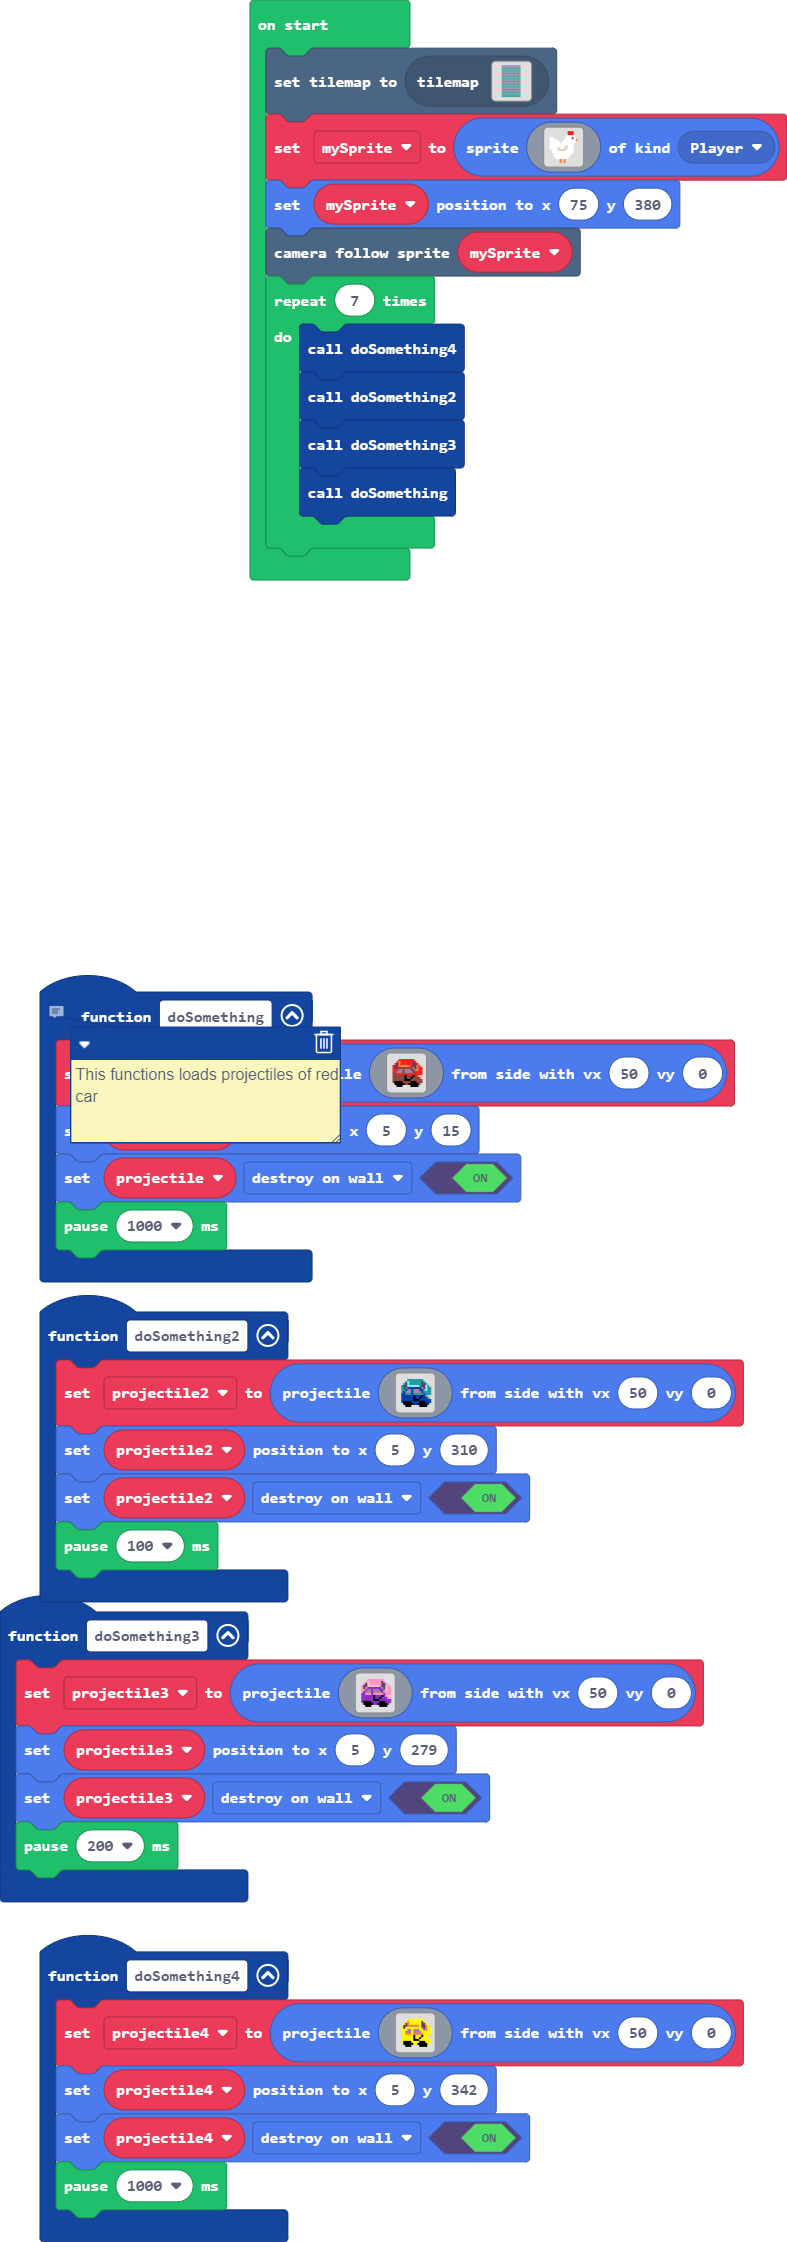
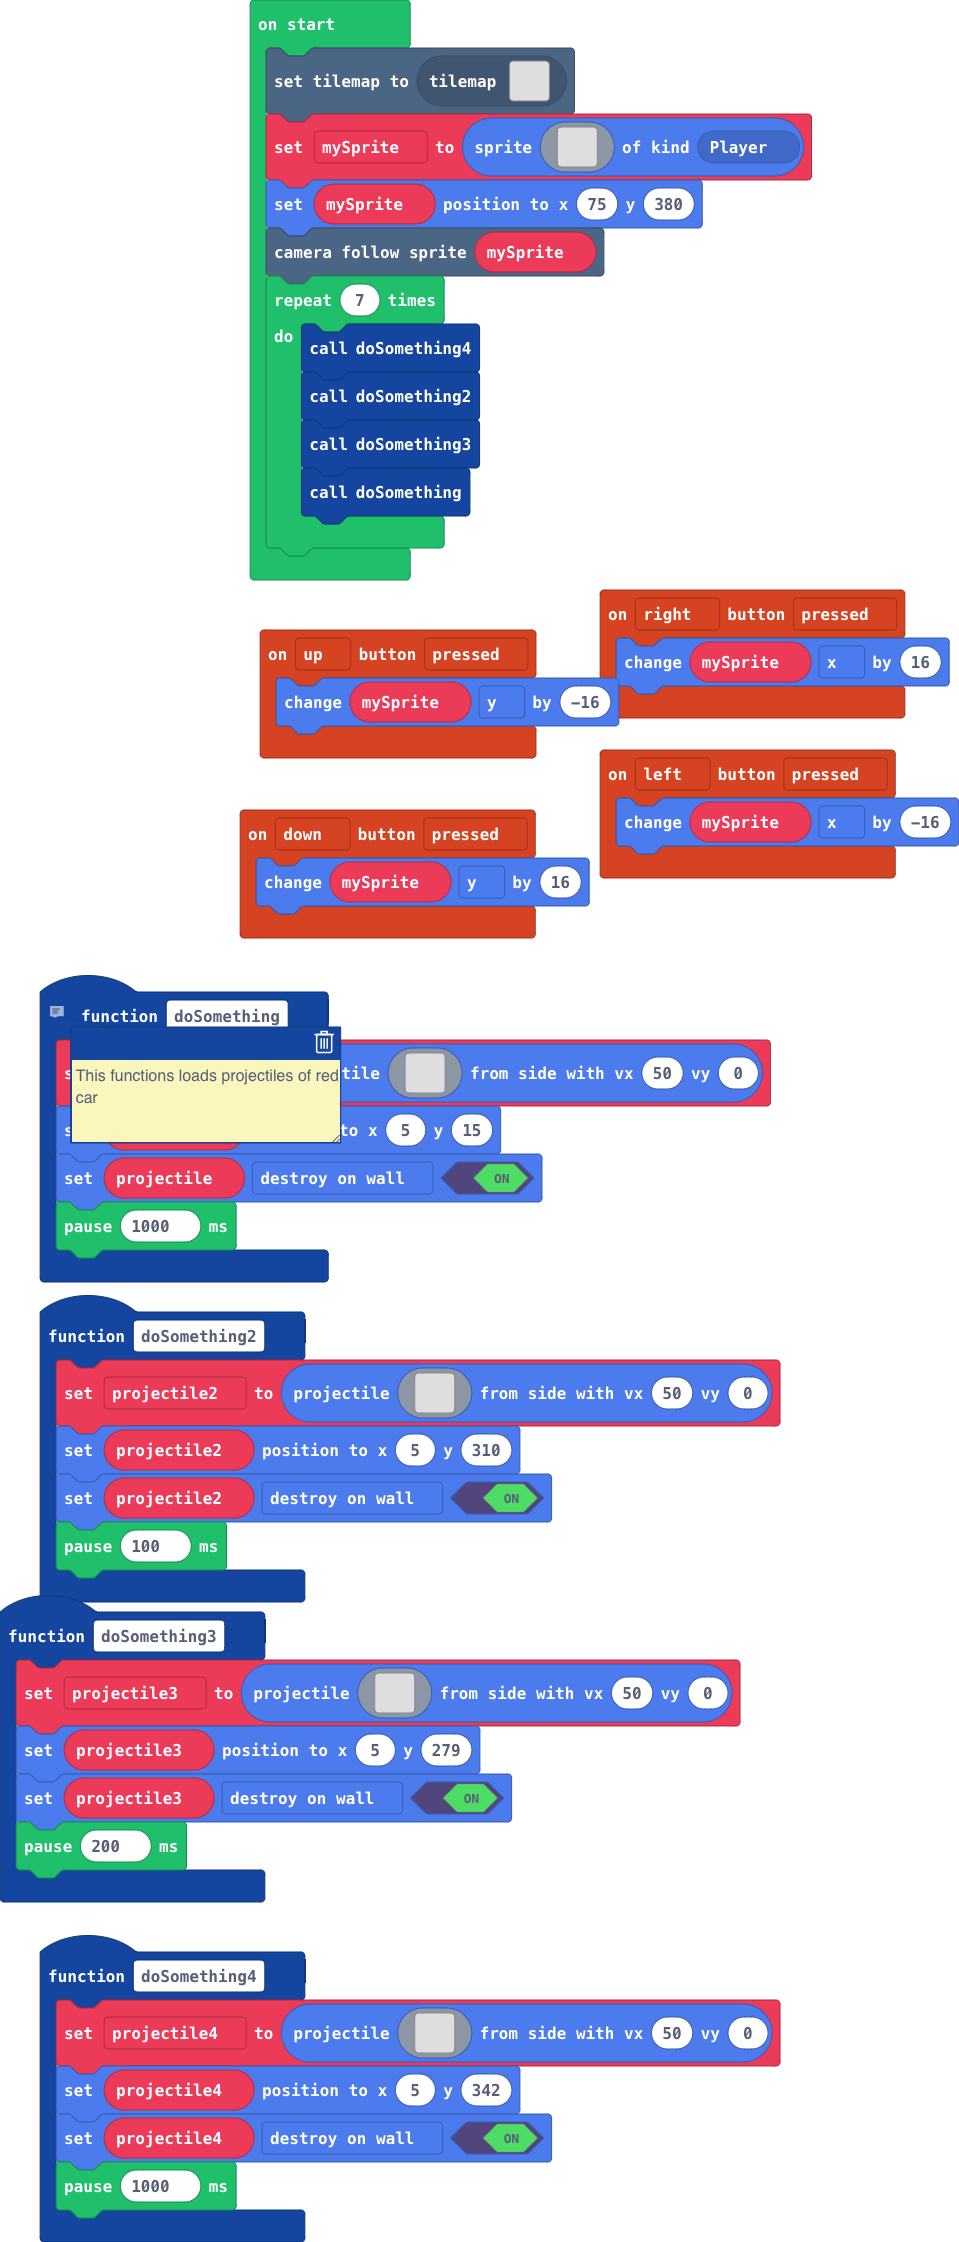
Update main.blocks, main.ts

diff --git a/main.ts b/main.ts
@@ -21,6 +21,15 @@ function doSomething3 () {
     projectile3.setFlag(SpriteFlag.DestroyOnWall, true)
     pause(200)
 }
+controller.up.onEvent(ControllerButtonEvent.Pressed, function () {
+    mySprite.y += -16
+})
+controller.left.onEvent(ControllerButtonEvent.Pressed, function () {
+    mySprite.x += -16
+})
+controller.right.onEvent(ControllerButtonEvent.Pressed, function () {
+    mySprite.x += 16
+})
 // This functions loads projectiles of red car
 function doSomething () {
     projectile = sprites.createProjectileFromSide(img`
@@ -45,6 +54,9 @@ function doSomething () {
     projectile.setFlag(SpriteFlag.DestroyOnWall, true)
     pause(1000)
 }
+controller.down.onEvent(ControllerButtonEvent.Pressed, function () {
+    mySprite.y += 16
+})
 function doSomething2 () {
     projectile2 = sprites.createProjectileFromSide(img`
         . . . . . . . . . . . . . . . . 
@@ -95,8 +107,9 @@ let projectile4: Sprite = null
 let projectile2: Sprite = null
 let projectile: Sprite = null
 let projectile3: Sprite = null
+let mySprite: Sprite = null
 tiles.setCurrentTilemap(tilemap`level1`)
-let mySprite = sprites.create(img`
+mySprite = sprites.create(img`
     . . . . . . . . . . 2 2 2 . . . 
     . . . . . . . . . . 2 2 2 . . . 
     . . . . . . . . . 1 1 1 1 1 . . 
